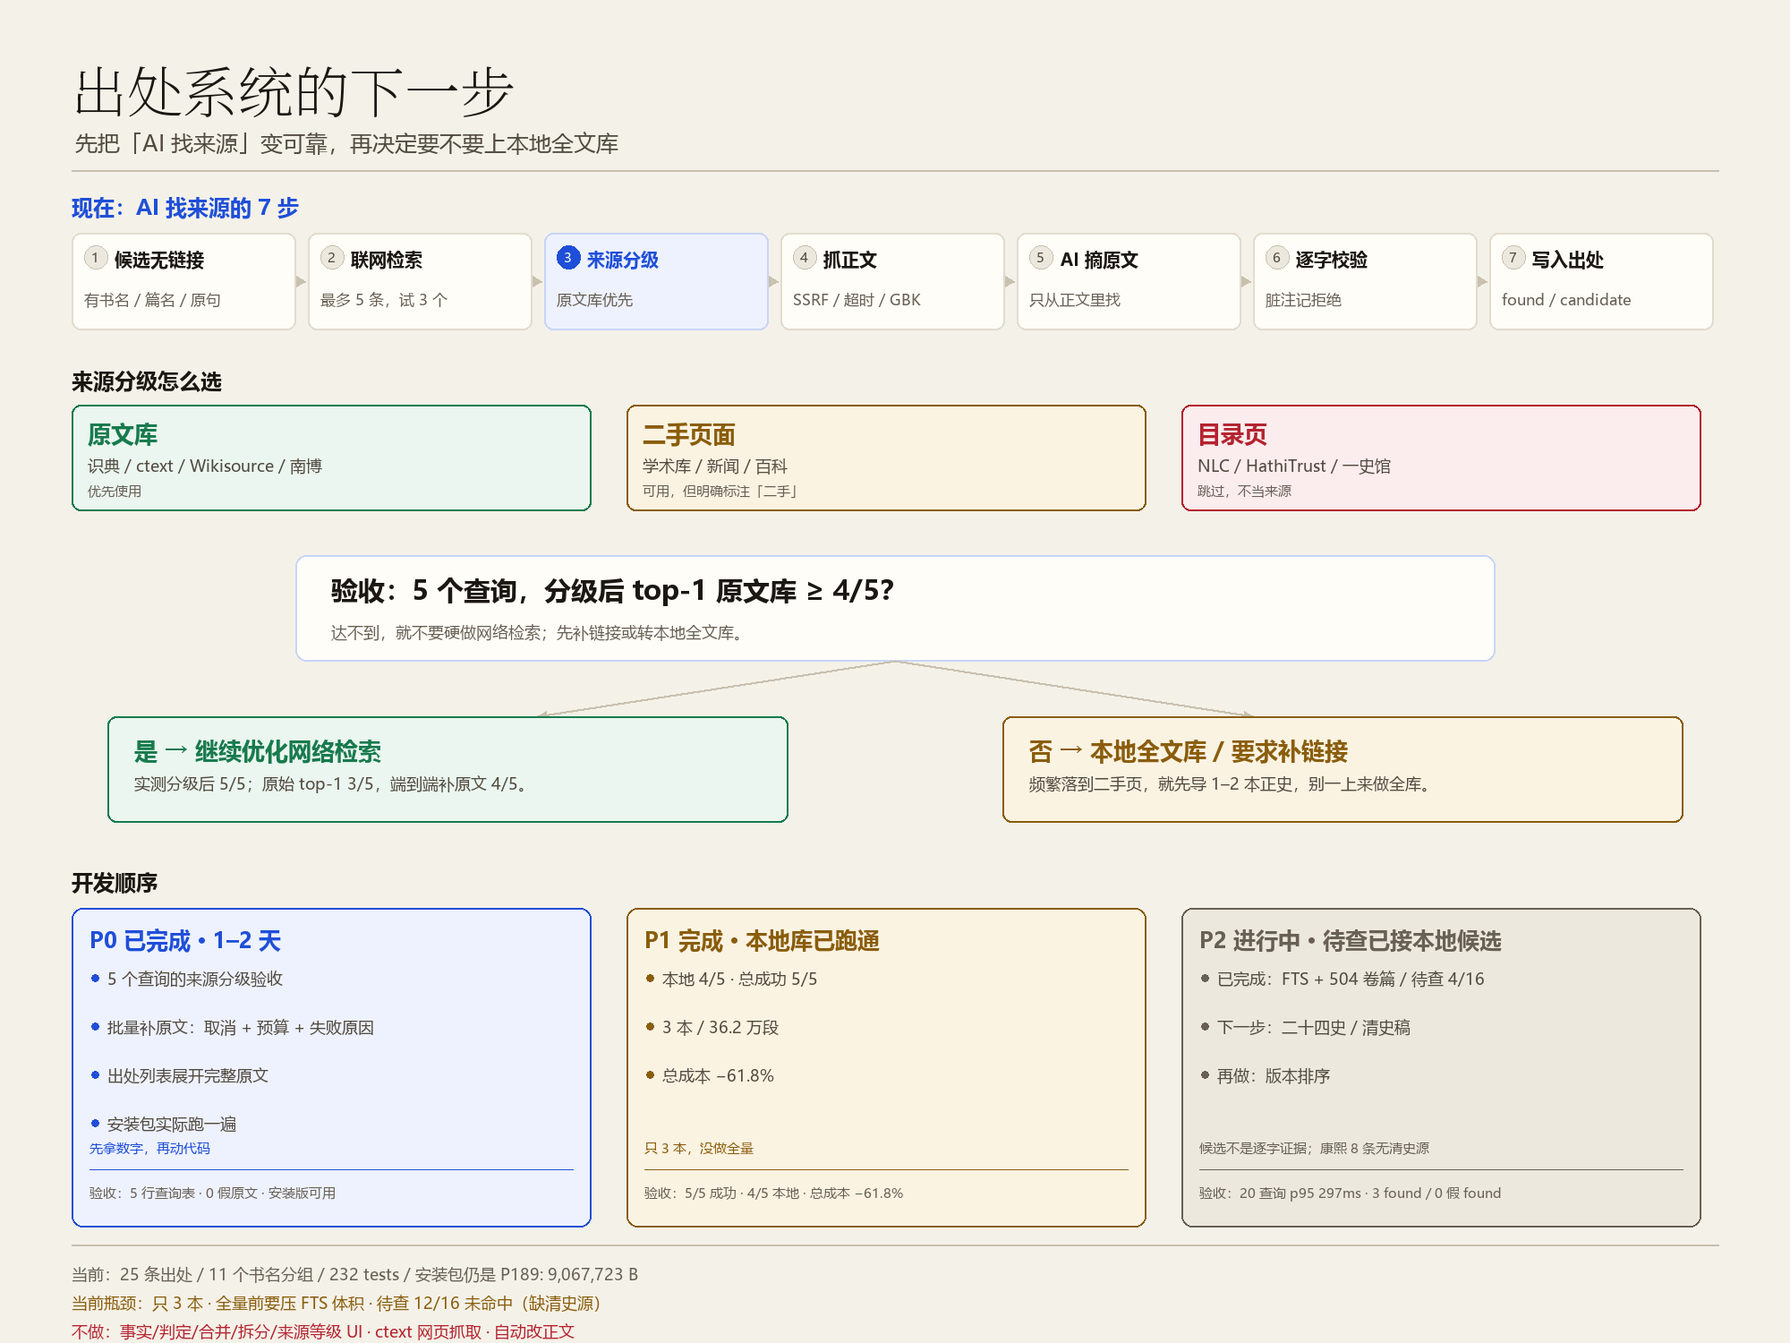
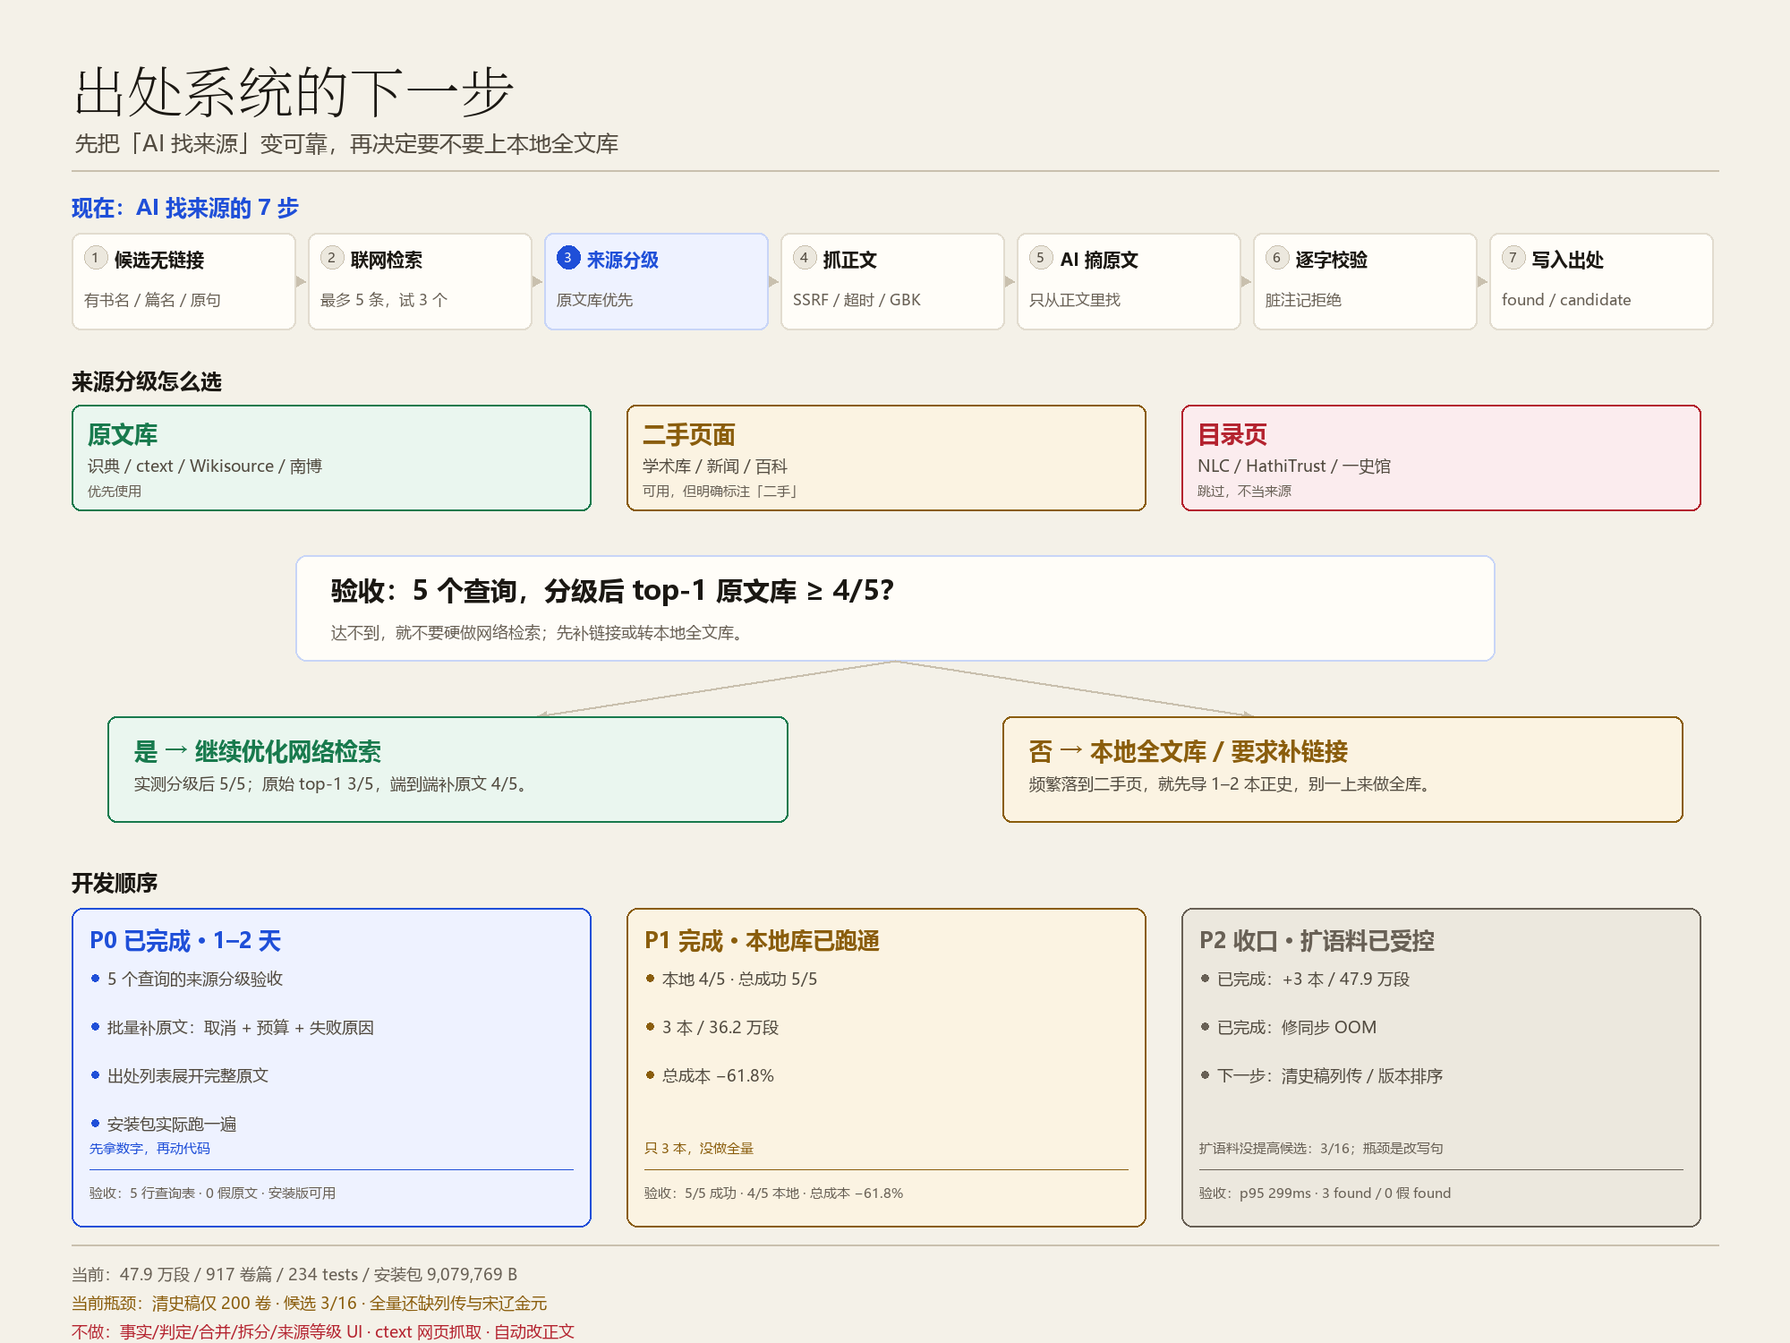
docs: 记录受控扩语料、同步崩溃与安装验收

Changed region(s): [[0.682, 0.6747, 0.837, 0.8893], [0.062, 0.92, 0.341, 0.9813]]

diff --git a/tools/build-plan-diagram.py b/tools/build-plan-diagram.py
@@ -148,11 +148,11 @@ cards = [
         "3 本 / 36.2 万段",
         "总成本 −61.8%",
     ], "只 3 本，没做全量", "5/5 成功 · 4/5 本地 · 总成本 −61.8%"),
-    ("P2 进行中 · 待查已接本地候选", INK3, RAIL, [
-        "已完成：FTS + 504 卷篇 / 待查 4/16",
-        "下一步：二十四史 / 清史稿",
-        "再做：版本排序",
-    ], "候选不是逐字证据；康熙 8 条无清史源", "20 查询 p95 297ms · 3 found / 0 假 found"),
+    ("P2 收口 · 扩语料已受控", INK3, RAIL, [
+        "已完成：+3 本 / 47.9 万段",
+        "已完成：修同步 OOM",
+        "下一步：清史稿列传 / 版本排序",
+    ], "扩语料没提高候选：3/16；瓶颈是改写句", "p95 299ms · 3 found / 0 假 found"),
 ]
 cy = 1014
 for i, (title, color, soft, bullets, note, acceptance) in enumerate(cards):
@@ -171,8 +171,8 @@ for i, (title, color, soft, bullets, note, acceptance) in enumerate(cards):
 
 # Footer
 d.line((80, 1390, W - 80, 1390), fill=LINE2, width=2)
-text_at("当前：25 条出处 / 11 个书名分组 / 232 tests / 安装包仍是 P189: 9,067,723 B", 80, 1410, F_FOOT, INK3)
-text_at("当前瓶颈：只 3 本 · 全量前要压 FTS 体积 · 待查 12/16 未命中（缺清史源）", 80, 1442, F_FOOT, GOLD)
+text_at("当前：47.9 万段 / 917 卷篇 / 234 tests / 安装包 9,079,769 B", 80, 1410, F_FOOT, INK3)
+text_at("当前瓶颈：清史稿仅 200 卷 · 候选 3/16 · 全量还缺列传与宋辽金元", 80, 1442, F_FOOT, GOLD)
 text_at("不做：事实/判定/合并/拆分/来源等级 UI · ctext 网页抓取 · 自动改正文", 80, 1474, F_FOOT, RED)
 
 out = Path("docs/diagrams/plan-2026-11-22.png")

diff --git a/docs/HANDOFF.md b/docs/HANDOFF.md
@@ -5,9 +5,9 @@
 
 ## 1. 当前状态
 
-- 分支：`feat/native-production-facts-ui`；P137–P147 已推送（`0f62cec`），P148–P159 已提交并推送（HEAD 见 `git log`）；P160 速览 vs AI 成稿同源对比已记录。**P161–P166 已提交**：后端 `9b642f6`、前端 `44c6177`、工具 `68714a3`；文档 `7053590`、P167 文档 `d486dfb`。**P168 已提交**：主导航移除“事实”（`c03d96a`）、第三篇陈寿笔记 4/4 补原文、安装包体积（`b2f5650` / `d9e8beb`）。**P169 已做**：兼容性对照；**P170 已做**：AI 成稿 claims 协议 + cite_agent 确定性读取 + 出处栏状态标签；**P171 已做**：纠正串联，改用康熙原始转写并列对照；**P172 已做**：同一篇 AI 成稿的旧/新出处 agent 对照；**P173 已做**：出处编辑交互修复；**P174 已做**：AI 补原文（URL 抓取 + 模型定位 + 逐字校验）；**P175 已做**：claims 注释剥离 + AI 补原文成本回报；**P176 已做**：3 条批量补原文 + 1024 操作行；**P177 已做**：批量补原文 UI；**P178 已做**：无 URL 候选的 AI 找来源；**P179 已做**：来源分级 + 史料页收敛；**P180 已做**：批量停止/预算/失败原因 + 失败成本入账；**P181 已做**：5 查询来源与端到端验收；**P182 已做**：出处折叠 + 安装版验收；**P183 已做**：DeepSeek 搜索成本记账；**P184 已做**：AI 成稿 claims 基线与待查提示；**P185 已做**：本地全文库（三本 36.2 万段，5/5 成功、成本 −61.8%）；**P186 已做**：全文详情分页/跳页/搜索（25.8 万段只回 50 段）；**P187 已做**：连续正文阅读器（分句重组为自然段，搜索高亮）；**P188 已做**：史料显示层统一简体（保留繁体底本）；**P189 已做**：FTS 索引 + 卷/篇目录（20 查询 p95 297ms）；**P190 已做**：AI 成稿「待查」接本地全文候选（16 条出 4 条候选、3 条 found、0 假 found）。正文曾短暂校正两处，按用户要求已还原；数据在 vault DB。`sample-vault/` 下的个人内容不要提交。
-- 最近构建：`cargo test --lib` **232 passed / 7 ignored**；`npm run build` 通过；P166 视觉 607/608、P167 视觉 609–612、P168 视觉 613–616、P170 视觉 619/620 均 pass。三篇旧链路共 **15/15** 条出处有原文；P190 候选 4/16、found 3、假 found 0。**P190 未重打安装包**（按里程碑策略，等 P2 收口一起打）。
[1 lines of base64/hex data omitted]
+- 分支：`feat/native-production-facts-ui`；P137–P147 已推送（`0f62cec`），P148–P159 已提交并推送（HEAD 见 `git log`）；P160 速览 vs AI 成稿同源对比已记录。**P161–P166 已提交**：后端 `9b642f6`、前端 `44c6177`、工具 `68714a3`；文档 `7053590`、P167 文档 `d486dfb`。**P168 已提交**：主导航移除“事实”（`c03d96a`）、第三篇陈寿笔记 4/4 补原文、安装包体积（`b2f5650` / `d9e8beb`）。**P169 已做**：兼容性对照；**P170 已做**：AI 成稿 claims 协议 + cite_agent 确定性读取 + 出处栏状态标签；**P171 已做**：纠正串联，改用康熙原始转写并列对照；**P172 已做**：同一篇 AI 成稿的旧/新出处 agent 对照；**P173 已做**：出处编辑交互修复；**P174 已做**：AI 补原文（URL 抓取 + 模型定位 + 逐字校验）；**P175 已做**：claims 注释剥离 + AI 补原文成本回报；**P176 已做**：3 条批量补原文 + 1024 操作行；**P177 已做**：批量补原文 UI；**P178 已做**：无 URL 候选的 AI 找来源；**P179 已做**：来源分级 + 史料页收敛；**P180 已做**：批量停止/预算/失败原因 + 失败成本入账；**P181 已做**：5 查询来源与端到端验收；**P182 已做**：出处折叠 + 安装版验收；**P183 已做**：DeepSeek 搜索成本记账；**P184 已做**：AI 成稿 claims 基线与待查提示；**P185 已做**：本地全文库（三本 36.2 万段，5/5 成功、成本 −61.8%）；**P186 已做**：全文详情分页/跳页/搜索（25.8 万段只回 50 段）；**P187 已做**：连续正文阅读器（分句重组为自然段，搜索高亮）；**P188 已做**：史料显示层统一简体（保留繁体底本）；**P189 已做**：FTS 索引 + 卷/篇目录（20 查询 p95 297ms）；**P190 已做**：AI 成稿「待查」接本地全文候选（16 条出 4 条候选、3 条 found、0 假 found）；**P2-C 已做**：受控扩宋书/魏书/清史稿 200 卷（+117,839 段 / +149MB），并修掉 `source_passages` 同步导致的 512MB OOM。正文曾短暂校正两处，按用户要求已还原；数据在 vault DB。`sample-vault/` 下的个人内容不要提交。
+- 最近构建：`cargo test --lib` **234 passed / 7 ignored**；`npm run build` 通过；P166 视觉 607/608、P167 视觉 609–612、P168 视觉 613–616、P170 视觉 619/620 均 pass。三篇旧链路共 **15/15** 条出处有原文；P2-C 后候选 3/16、found 3、假 found 0；扩语料没有提高这两篇的候选召回。**P2-C 需要重打安装包**（旧安装版会在扩语料 DB 上同步崩溃）。
[1 lines of base64/hex data omitted]
 - 制作台可见模板 **4 个**：视频笔记、文稿笔记、**AI 成稿**、速览与溯源；技术小册子、HTML 作者版、前端 agent runtime、技术调研笔记、智能体笔记已删除。
 - `sample-vault/` 下未跟踪的个人笔记和 `.yebian/` 运行产物不是代码改动，不要提交。
 
@@ -195,6 +195,7 @@
 - **P188 简体优先显示**：三本底本是繁体 EPUB，之前 `original_text` 直接显示。新增前端 OpenCC 映射（4,152 字，`tools/build-t2s-ts.mjs` 从 Rust `t2s.txt` 生成），阅读器正文、书名/作者、出处原句、史料库原句统一转简体；底层繁体原字保留，搜索和逐字校验不变。安装版实测首段「资治通鉴-新注资治通鉴序 古者国各有史…」，出处卡「公至延津，绍众大溃。」。安装包 `9,061,346 B` / 主程序 `23,194,624 B`。
[1 lines of base64/hex data omitted]
 - **P190 待查接本地全文候选**：`run_claims_block` 对 `待查` 调 `local_candidates`：最多 48 个三元组 + 40 个四元组走 FTS，要求“2 个三元组 +（2 个四元组 或 1 个四元组且命中常见姓氏人名）”。候选写 `status=candidate / provider=local-search`，不传 passage_id，避免被 `add_note_citation` 改写成 found。16 条待查出 **4 条候选（25%）**，4 条均对应正确事件；两篇 cite **104/129ms、0 token**。补原文 3 found / 1 candidate / **0 假 found**；2 条纯本地补原文 ¥0.002125、0 检索；4 条合计 ¥0.031097。第一版 6 条候选里 4 条误配，已废弃。新增 2 条单测；232 tests。**本轮未重打安装包**。数据 `docs/p2b-local-candidates.json`。
+- **P2-C 受控扩语料**：新增宋书 50,240 段、魏书 63,349 段、清史稿前 200 卷 4,249 段；语料 479,390 段 / 917 卷篇，DB 473,432,064 B（净 +149MB）。导入 17s + 17s + 11s。20 查询 p95 299ms；两篇 cite 126/119ms。候选仍 3/16（攻城未克、正月撤退、仅以身免），扩语料没有提高召回；新规则拒绝“人名-only”误配。补原文 3/3 found、0 假 found，模型 ¥0.009232 + 检索 ¥0.005 = ¥0.014232。**关键修复**：`source_passages` 从 `SYNCED_TABLES` 移除——导入后 auto sync 把 47 万段整表序列化，报 413 并 512MB OOM；修复后 debug 进程稳定约 61MB。`split_long_passage` 增加无标点文本 500 字硬切分。234 tests。安装包 `9,079,769 B` / 主程序 `23,262,208 B`（安装后 SHA256 `4FC3695E…`；release `A8ECEEBE…`，3 字节 UNK/NSS）；安装版启动约 51MB，cite 37ms / 3 候选，本地补原文 1,786ms / found。数据 `docs/p2c-controlled-corpus.json`。
 - **P178 无 URL 候选 AI 找来源**：`fill_original` 无 URL 时用 work/section/原句联网检索（最多 5 条，取前 3 个 URL），逐个抓取+定位+逐字校验；`quote_is_clean` 拒绝“同上/頁/页/http/www.”。实测第一次学术库结果因“173/同上，頁334”被拒，重跑得到干净“春正月，大疫，使使者巡行致醫藥。”，15,958ms / ¥0.001919 / found；UI 14.3s / ¥0.0010，截图 645，视觉 pass。
 - **P177 批量补原文 UI**：出处栏新增 `AI 补齐候选 N`，只处理有 URL 的候选，串行补；运行中 `AI 补齐 1/3…`，完成后 `AI 补齐完成：3/3 成功 · ¥0.0052`，无候选时按钮消失。实测 3/3 found、约 5s、¥0.0052；截图 644，视觉 pass；226 tests。
 - **P176 批量补原文 + 1024**：3 条候选串行 AI 补原文 **3/3 found / 约 5.3s / ¥0.0207**：后汉书南博页两条（1,031ms/¥0.000755、1,576ms/¥0.009449），资治通鉴卷132一条（2,712ms/¥0.010488）。1024 下操作行 `AI 补原文/手动补原文/打开来源/删除` 能放下，无横向溢出；切笔记残留提示已在 `loadCitations` 清空。截图 642/643，视觉两页 pass。

diff --git a/docs/CITATIONS.md b/docs/CITATIONS.md
@@ -103,9 +103,10 @@
 - **P188 简体优先显示（2026-11-23）**：三本公版底本是繁体 EPUB，之前把 `original_text` 直接显示，大陆用户看到整页繁体。新增前端 OpenCC 映射（4,152 字，`tools/build-t2s-ts.mjs` 从 Rust `t2s.txt` 生成），阅读器正文、书名/作者、出处原句、史料库原句统一转简体；底层繁体原字保留，搜索归一和逐字校验不变。实测安装版首段「资治通鉴-新注资治通鉴序 古者国各有史…」，出处卡「公至延津，绍众大溃。」。安装包 `9,061,346 B` / 主程序 `23,194,624 B`。**边界**：显示层转简体，不换底本；异体字仍以 OpenCC 常见映射为准；没有原文/简体切换。
[1 lines of base64/hex data omitted]
 - **P190 待查接本地候选（2026-11-23）**：`run_claims_block` 对 `待查` 调 `local_candidates`，只写 `candidate / provider=local-search`，不传 `passage_id`，避免被 `add_note_citation` 改写为 found。检索最多 48 个三元组 + 40 个四元组，要求“2 个三元组 +（2 个四元组 或 1 个四元组且命中常见姓氏人名）”；疑似人名是启发式。16 条待查出 **4 条候选（25%）**，4 条均对应正确事件；两篇 `production_cite_note` **104ms / 129ms、0 token**。补原文 **3 found / 1 candidate / 0 假 found**；2 条纯本地补原文 ¥0.002125、0 检索；4 条合计 ¥0.031097。第一版 6 条候选里 4 条误配，已废弃。出处栏显示「本地候选」「其中 N 条已定位到本地全文库」，本地候选无 URL 也能 AI 补原文。新增 2 条单测；**232 tests**。**本轮未重打安装包**。数据 `docs/p2b-local-candidates.json`。**边界**：样本 2 篇 / 16 条；相关性为单人阅读判断；本地只有三本，康熙篇 8 条全未命中；联网回退失败时保持 candidate。
+- **P2-C 受控扩语料（2026-11-23）**：新增《宋书》50,240 段、《魏书》63,349 段、《清史稿》前 200 卷 4,249 段；语料 **479,390 段 / 917 卷篇**，DB **473,432,064 B**（+149,118,976 B / +46.0%）。候选仍是 **3/16**（攻城未克、正月撤退、仅以身免），扩语料没有提高这两篇的召回；新增“人名-only 不算证据”规则，拒绝尚可喜误配。补原文 **3/3 found、0 假 found**，¥0.014232。**关键修复**：`source_passages` 从 `SYNCED_TABLES` 移除——导入后 auto sync 会把 47 万段整表序列化，报 413 并 512MB OOM；修复后 debug 进程稳定约 61MB。`split_long_passage` 支持无标点文本 500 字硬切分。**234 tests**。安装包 `9,079,769 B` / 主程序 `23,262,208 B`（安装后 SHA256 `4FC3695E…`；release `A8ECEEBE…`，3 字节 `UNK`/`NSS`）；安装版启动约 51MB，cite 37ms / 3 候选，本地补原文 1,786ms / found。数据 `docs/p2c-controlled-corpus.json`。**边界**：清史稿只有 200 卷、无列传；没有宋史/辽史/金史/元史；这两篇的瓶颈是改写句与原文的词面差距。
 - **P172 同一篇 AI 成稿：旧/新出处 agent（2026-11-22）**：固定《九个字里的官渡》的可见正文，只换出处 agent。旧副本去掉 claims 块后走模型/tool 路径：**2 候选 / 0 found / 19.4s / ¥0.0126 / 15 回合**，第二条挂成《资治通鉴》（claims 写的是《三国志·武帝纪》）；新 claims 路径：**1 found + 1 candidate / 6ms / 0 token / 0 回合**，第一条带原文“公至延津，绍众大溃。”，第二条为《三国志》候选。截图 626/627。
 - **P166 管理闭环**：`cite_agent` 达到 6 条立即结束；出处卡片加 `改原文`/`删除`。真实 UI 探针（`tools/probe-cite-ui.mjs`）在华佗笔记上新增 1 条临时出处 → 6 条，点 `改原文` 保存为“测试原文二”，点 `删除` 后回到 5 条，临时记录已清理。
-- `cargo test --lib` **232 passed / 7 ignored**；`npm run build` 通过；P166 视觉 607/608、P167 视觉 609–612、P168 视觉 613–616、P170 视觉 619/620、P180–189 视觉/探针复检通过；P190 用 dev 实例做 DOM 文本验收（4 条出处、1 条待补、3 条已找到），未重打安装包。
+- `cargo test --lib` **234 passed / 7 ignored**；`npm run build` 通过；P166 视觉 607/608、P167 视觉 609–612、P168 视觉 613–616、P170 视觉 619/620、P180–189 视觉/探针复检通过；P190 用 dev 实例做 DOM 文本验收（4 条出处、1 条待补、3 条已找到），P2-C 在扩语料 DB 上复验 3 条候选 / 3 found。
 - **原文与笔记的差异**（正文未改，差异保留在出处卡片）：北魏正文“十之八九”，《資治通鑑》原文“手足斷者什七八”；曹操正文“头骨上的蛀牙”，潘伟斌文“多颗牙齿/牙齿”。陈寿笔记“评价最好的几个人之一”是作者判断，《三国志·评曰》只支持“识治之良才，管、萧之亚匹”的高评价，不是字面排名。
 
 ## 6. 已知限制
@@ -120,6 +121,7 @@
 - AI 补原文有 URL 时抓链接；无 URL 时走联网检索（最多 5 个、试前 3 个），检索结果按 primary/secondary 排序、跳过 catalog，但仍可能是二手页面，只保证 quote 存在于页面，不保证点校本/影印原文。目录页候选不进入批量；批量已有停止/预算/失败原因，但预算是软上限（单条可能略超）。DeepSeek 搜索已按 ¥0.005/次成功请求记账，Tavily/Zhipu 只记调用不记金额。5 查询端到端只有 4/5 成功，失败原因是《三国志·武帝纪》在可抓页面里找不到连续原文，需要本地全文库或更好的页面覆盖。
 - AI 成稿历史笔记只测了 1 次（素材还是旧北魏笔记正文）：6 条候选、0 直达原文、至少 3 条错归；当前不能当作“AI 成稿可直接出处化”。要常用，需要让 AI 成稿输出“史源/原文”块，或让出处 agent 只处理【史载】句并要求原文。
 - P190 的本地候选只覆盖 4/16 条待查（25%），且本地只有后汉书/三国志/资治通鉴；康熙、洪承畴等清史题材 8 条全部未命中。候选是“可能相关段落”，不是逐字证据；补原文仍要模型从段落里抽句并校验。第一版按常用三元组召回，6 条候选里 4 条误配，说明这类检索必须同时看长短语和人名，不能只看词面重合。
+- P2-C 扩语料后候选降到 3/16，不是检索退化，而是去掉了“只命中人名/常用词”的弱候选；4 条旧候选里“刘彧命十五万受降”本来也没有数量/结果支撑。清史稿只有 200 卷（本纪/志/表），洪承畴、尚可喜等列传仍缺；康熙篇 8 条仍全未命中。本地全文不再跨设备同步（`source_passages` 移出同步表），换机后需要重新导入；这是为了避免 47 万段整表序列化导致的 OOM。
 - P170 已落 claims 路径：AI 成稿自愿输出 claims 块；完整北魏长稿用第一版 prompt 时模型卡在回合、被取消，收紧后复跑成功，但 8 条 claims 全部 `待查`，因此 0 出处；`work` 为空一律跳过。`待查` 不落出处；安装包已重打（`8,985,040 B`）。
 - 旧事实/史料数据保留，没有迁移或删除；旧事实页已从主导航移除，只保留设置 → 关于的“旧事实档案”入口。
 - P175 已修：claims HTML 注释不再计入字数/FTS；同一正文从 450 回到 238 字，隐藏字段搜索 0 命中。
